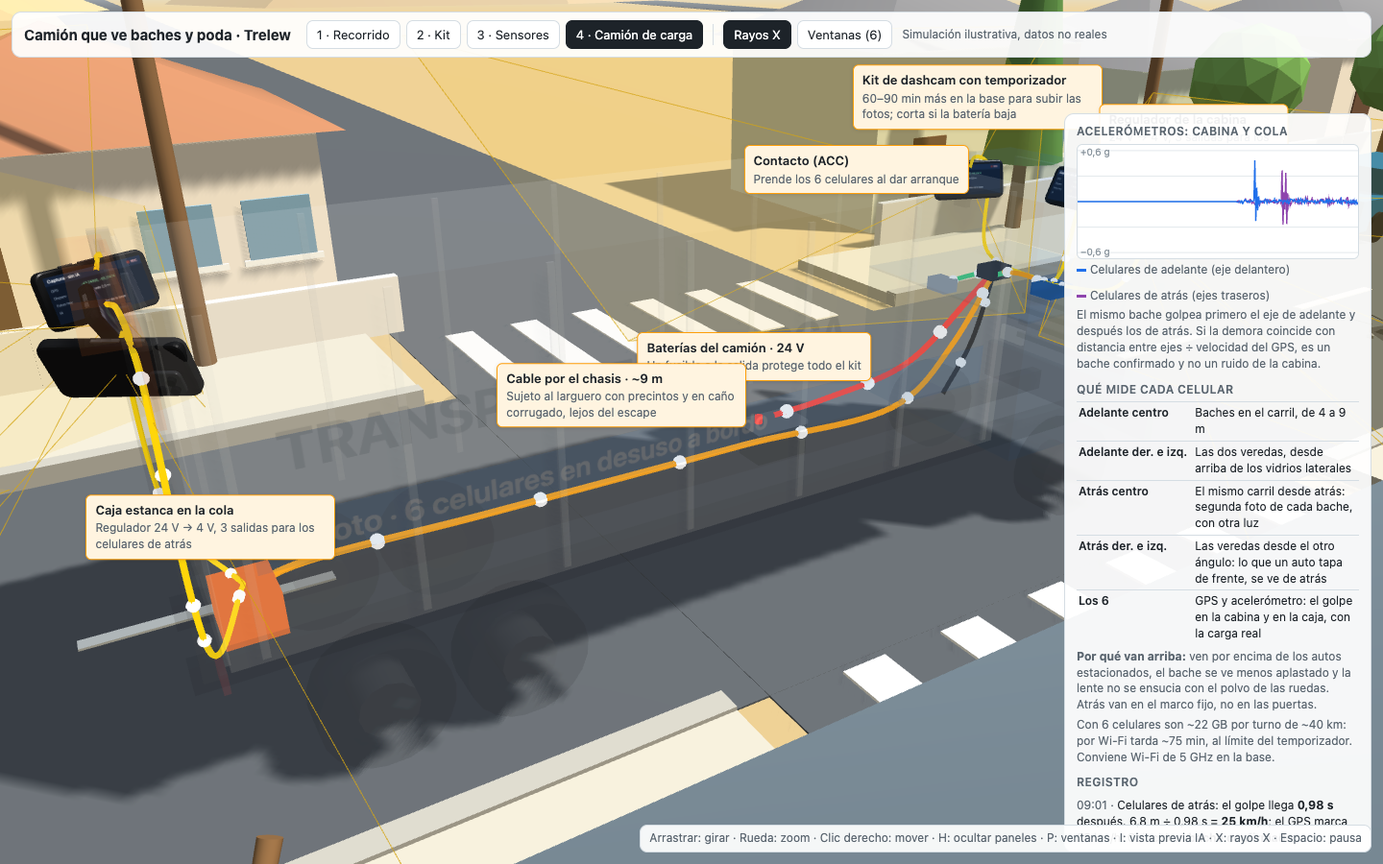
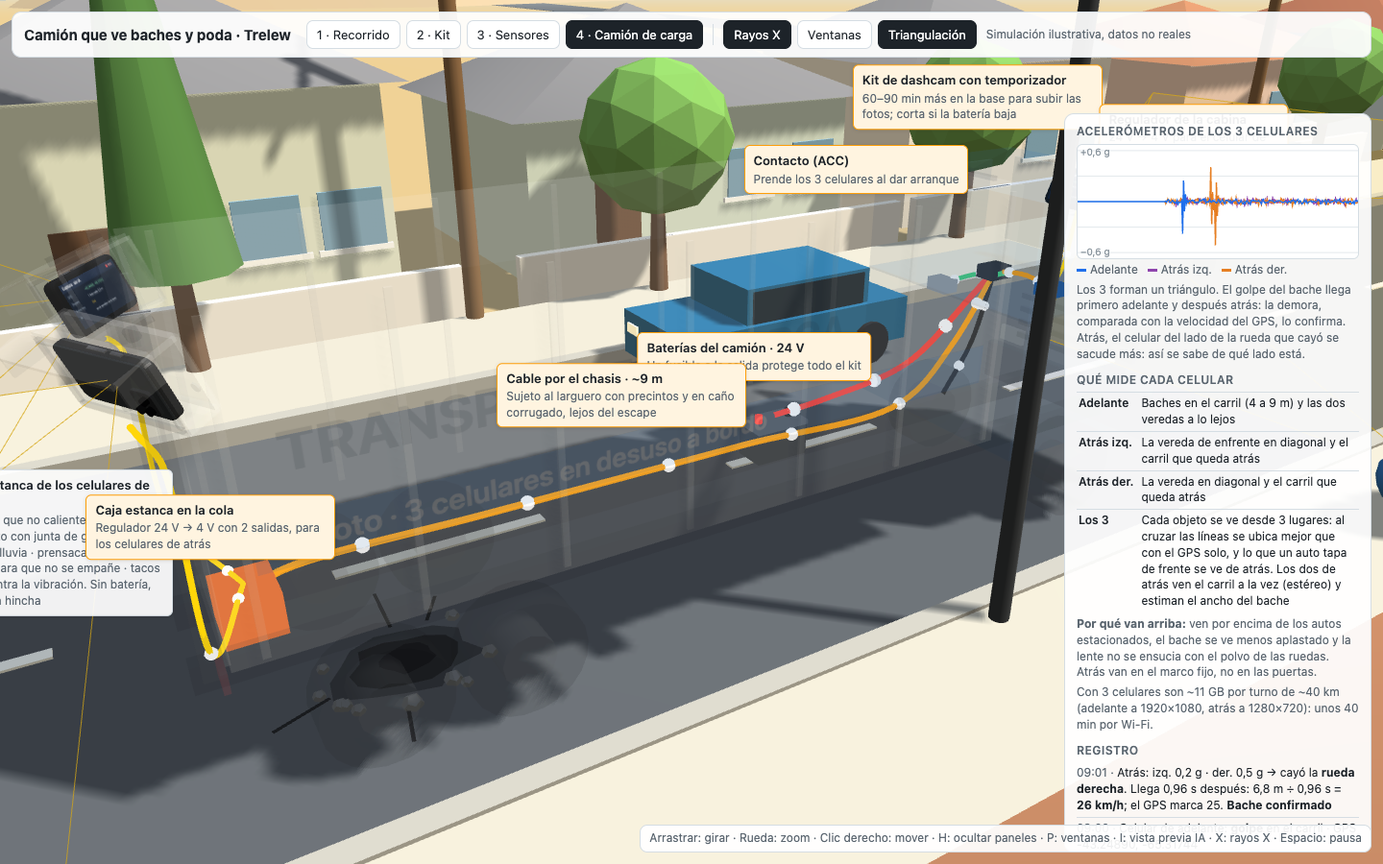
Camión de carga: 3 celulares que triangulan y carcasa estanca mejorada

diff --git a/03_visor_3d/visor_3d.html b/03_visor_3d/visor_3d.html
@@ -78,10 +78,11 @@
   #toast{position:fixed;left:50%;top:126px;transform:translateX(-50%);background:var(--ink);color:#fff;border-radius:8px;padding:7px 14px;font-size:13px;display:none}
   body.clean header,body.clean aside,body.clean #miniwrap,body.clean #info,body.clean #help{display:none!important}
   body.clean #pips,body.clean #server{top:12px}
-  #mosaic{position:fixed;left:12px;top:118px;display:none;grid-template-columns:repeat(2,214px);gap:6px;pointer-events:none}
+  #mosaic{position:fixed;left:12px;top:118px;display:none;grid-template-columns:320px;gap:6px;pointer-events:none}
   #mosaic .cell{border:1px solid var(--line);border-radius:8px;overflow:hidden;background:transparent}
   #mosaic .cell div:first-child{height:22px;padding:3px 8px;font-size:11px;font-weight:600;color:var(--muted);background:var(--card);white-space:nowrap;overflow:hidden;text-overflow:ellipsis}
-  #mosaic .mimg{height:120px}
+  #mosaic .mimg{height:180px}
+  @media (max-height:780px){#mosaic .mimg{height:130px}}
   #cargoPanel{display:none}
   #cargoChart{width:100%;height:120px;display:block;border:1px solid var(--line);border-radius:6px;background:#fff}
   #cargoPanel table{width:100%;border-collapse:collapse;font-size:12px}
@@ -128,7 +129,8 @@
   </div>
   <div class="btns" id="cargaBtns" style="display:none">
     <button id="xray2">Rayos X</button>
-    <button id="mos" class="on">Ventanas (6)</button>
+    <button id="mos" class="on">Ventanas</button>
+    <button id="tri" class="on">Triangulación</button>
   </div>
   <div class="btns" id="kitBtns" style="display:none">
     <button id="explode">Armar</button>
@@ -157,20 +159,19 @@
 <div id="miniwrap"><h2>Mapa del recorrido</h2><canvas id="mini"></canvas></div>
 <div id="mosaic"></div>
 <aside id="cargoPanel">
-  <h2>Acelerómetros: cabina y cola</h2>
+  <h2>Acelerómetros de los 3 celulares</h2>
   <canvas id="cargoChart"></canvas>
-  <div class="legend"><span><i style="background:#1f6feb"></i>Celulares de adelante (eje delantero)</span><span><i style="background:#8e44ad"></i>Celulares de atrás (ejes traseros)</span></div>
-  <p>El mismo bache golpea primero el eje de adelante y después los de atrás. Si la demora coincide con distancia entre ejes ÷ velocidad del GPS, es un bache confirmado y no un ruido de la cabina.</p>
+  <div class="legend"><span><i style="background:#1f6feb"></i>Adelante</span><span><i style="background:#8e44ad"></i>Atrás izq.</span><span><i style="background:#e67e22"></i>Atrás der.</span></div>
+  <p>Los 3 forman un triángulo. El golpe del bache llega primero adelante y después atrás: la demora, comparada con la velocidad del GPS, lo confirma. Atrás, el celular del lado de la rueda que cayó se sacude más: así se sabe de qué lado está.</p>
   <h2>Qué mide cada celular</h2>
   <table>
-    <tr><td>Adelante centro</td><td>Baches en el carril, de 4 a 9 m</td></tr>
-    <tr><td>Adelante der. e izq.</td><td>Las dos veredas, desde arriba de los vidrios laterales</td></tr>
-    <tr><td>Atrás centro</td><td>El mismo carril desde atrás: segunda foto de cada bache, con otra luz</td></tr>
-    <tr><td>Atrás der. e izq.</td><td>Las veredas desde el otro ángulo: lo que un auto tapa de frente, se ve de atrás</td></tr>
-    <tr><td>Los 6</td><td>GPS y acelerómetro: el golpe en la cabina y en la caja, con la carga real</td></tr>
+    <tr><td>Adelante</td><td>Baches en el carril (4 a 9 m) y las dos veredas a lo lejos</td></tr>
+    <tr><td>Atrás izq.</td><td>La vereda de enfrente en diagonal y el carril que queda atrás</td></tr>
+    <tr><td>Atrás der.</td><td>La vereda en diagonal y el carril que queda atrás</td></tr>
+    <tr><td>Los 3</td><td>Cada objeto se ve desde 3 lugares: al cruzar las líneas se ubica mejor que con el GPS solo, y lo que un auto tapa de frente se ve de atrás. Los dos de atrás ven el carril a la vez (estéreo) y estiman el ancho del bache</td></tr>
   </table>
   <p><b>Por qué van arriba:</b> ven por encima de los autos estacionados, el bache se ve menos aplastado y la lente no se ensucia con el polvo de las ruedas. Atrás van en el marco fijo, no en las puertas.</p>
-  <p>Con 6 celulares son ~22 GB por turno de ~40 km: por Wi-Fi tarda ~75 min, al límite del temporizador. Conviene Wi-Fi de 5 GHz en la base.</p>
+  <p>Con 3 celulares son ~11 GB por turno de ~40 km (adelante a 1920×1080, atrás a 1280×720): unos 40 min por Wi-Fi.</p>
   <h2>Registro</h2>
   <ul id="cargoLog" class="log"></ul>
 </aside>
@@ -978,7 +979,7 @@ for (const [html, obj, off] of [
 }
 
 // =====================================================================
-// Camión de carga con 6 celulares
+// Camión de carga con 3 celulares que triangulan
 // =====================================================================
 const cargo = new THREE.Group(); cargo.visible = false; scene.add(cargo);
 {
@@ -1003,7 +1004,7 @@ const cargo = new THREE.Group(); cargo.visible = false; scene.add(cargo);
   const cTex = textTex(1024, 200, (g, w, h) => {
     g.fillStyle = "#1f5fa8"; g.fillRect(0, 140, w, 60);
     g.fillStyle = "#1d2329"; g.font = "700 62px system-ui"; g.fillText("TRANSPORTE DE CARGA", 40, 90);
-    g.fillStyle = "#fff"; g.font = "600 36px system-ui"; g.fillText("Piloto · 6 celulares en desuso a bordo", 40, 183);
+    g.fillStyle = "#fff"; g.font = "600 36px system-ui"; g.fillText("Piloto · 3 celulares en desuso a bordo", 40, 183);
   });
   for (const s of [1, -1]) { const pl = new THREE.Mesh(new THREE.PlaneGeometry(7, 1.35), new THREE.MeshBasicMaterial({map: cTex, transparent: true})); pl.position.set(-1.85, 2.7, s * 1.285); if (s < 0) pl.rotation.y = Math.PI; cargo.add(pl); }
 }
@@ -1013,33 +1014,50 @@ for (const x of CARGO_AXLES) for (const z of [-1.1, 1.1]) {
   const w = new THREE.Mesh(wg, M(0x1d1d1f)); w.position.set(x, .55, z); cargo.add(w); cargoWheels.push(w);
   const h = new THREE.Mesh(hubG, grey); h.position.set(x, .55, z); cargo.add(h); cargoWheels.push(h);
 }
-// los 6 celulares: 3 en el parabrisas y 3 en la cola, dentro de carcasas estancas
+// 3 celulares en triángulo: uno arriba del parabrisas y dos en las esquinas de arriba de la cola.
+// Los de atrás miran en diagonal: cada uno su vereda, y los dos juntos el carril que queda atrás (estéreo).
 const CC = [
-  {key: "fc", name: "Adelante centro · baches", pos: V3(4.42, 3.45, 0), dir: V3(1, -.42, 0)},
-  // los de los costados, arriba en los vidrios laterales (no en las esquinas del parabrisas, que tienen el parante)
-  {key: "fl", name: "Adelante izquierda · vereda de enfrente", pos: V3(3.75, 3.45, -1.18), dir: V3(.35, -.3, -1)},
-  {key: "fr", name: "Adelante derecha · vereda", pos: V3(3.75, 3.45, 1.18), dir: V3(.35, -.5, 1)},
-  // los de atrás, colgados del marco fijo de arriba: no de las puertas, que se abren para cargar
-  {key: "rc", name: "Atrás centro · baches, 2.ª foto", pos: V3(-5.86, 3.6, 0), dir: V3(-1, -.5, 0), rear: true},
-  {key: "rl", name: "Atrás izquierda · vereda de enfrente", pos: V3(-5.86, 3.6, -1.0), dir: V3(-.55, -.3, -1), rear: true},
-  {key: "rr", name: "Atrás derecha · vereda", pos: V3(-5.86, 3.6, 1.0), dir: V3(-.55, -.5, 1), rear: true}
+  {key: "fc", name: "Adelante · baches y las dos veredas a lo lejos", short: "Adelante", col: 0x1f6feb, pos: V3(4.42, 3.45, 0), dir: V3(1, -.42, 0), res: "1920 × 1080"},
+  // atrás: colgados del marco fijo, no de las puertas, que se abren para cargar
+  {key: "rl", name: "Atrás izquierda · vereda de enfrente y carril", short: "Atrás izquierda", col: 0x8e44ad, pos: V3(-5.9, 3.55, -1.05), dir: V3(-1, -.42, -.6), rear: true, res: "1280 × 720"},
+  {key: "rr", name: "Atrás derecha · vereda y carril", short: "Atrás derecha", col: 0xe67e22, pos: V3(-5.9, 3.55, 1.05), dir: V3(-1, -.42, .6), rear: true, res: "1280 × 720"}
 ];
-const cargoHelpers = [], cargoPhones = [];
+const cargoHelpers = [], cargoPhones = [], housings = [];
 const frusMat = new THREE.LineBasicMaterial({color: 0xd4a514, transparent: true, opacity: .75});
 const frusFill = new THREE.MeshBasicMaterial({color: 0xf2c230, transparent: true, opacity: .14, side: THREE.DoubleSide, depthWrite: false});
 const tmpCam = new THREE.PerspectiveCamera(43, 16 / 9, .6, 140);
+// carcasa estanca para los celulares que van afuera
+function makeHousing() {
+  const h = new THREE.Group(), body = M(0xeceff1, {roughness: .5}), rubber = M(0x1b1c1f, {roughness: .9});
+  // cuerpo blanco (refleja el sol), abierto adelante; el celular queda adentro
+  h.add(box(1.04, .06, .26, body, 0, .29, .07), box(1.04, .06, .26, body, 0, -.29, .07));
+  h.add(box(.06, .58, .26, body, -.52, 0, .07), box(.06, .58, .26, body, .52, 0, .07));
+  h.add(box(1.04, .58, .05, body, 0, 0, .2));
+  // ventana de policarbonato con junta de goma
+  h.add(box(.96, .5, .015, new THREE.MeshStandardMaterial({color: 0xcfe6f5, roughness: .05, metalness: .1, transparent: true, opacity: .28}), 0, 0, -.06));
+  for (const [w, hh, x, y] of [[1.0, .035, 0, .265], [1.0, .035, 0, -.265], [.035, .5, -.49, 0], [.035, .5, .49, 0]]) h.add(box(w, hh, .03, rubber, x, y, -.065));
+  // visera contra sol y lluvia, con alas a los costados
+  const vis = box(1.14, .03, .3, M(0xe4e7ea, {roughness: .5}), 0, .32, -.17); vis.rotation.x = -.12; h.add(vis);
+  for (const x of [-.56, .56]) h.add(box(.025, .2, .28, M(0xe4e7ea, {roughness: .5}), x, .22, -.15));
+  // prensacable abajo (el agua no entra por el cable) y membrana de venteo para que no se empañe
+  const gland = cyl(.045, .055, .09, rubber, 12); gland.position.set(.3, -.35, .1); h.add(gland);
+  const vent = cyl(.035, .035, .015, M(0x9aa0a6), 12); vent.rotation.x = Math.PI / 2; vent.position.set(-.35, -.18, .23); h.add(vent);
+  // tacos de goma antivibración entre la carcasa y el marco
+  for (const x of [-.32, .32]) { const t = cyl(.045, .045, .07, rubber, 10); t.position.set(x, .36, .08); h.add(t); }
+  return h;
+}
 for (const c of CC) {
   c.dir.normalize();
+  const flat = V3(c.dir.x, 0, c.dir.z).normalize(), pitch = -Math.asin(-c.dir.y);
   const ph = makePhone(.42, .86, .05, true);
-  ph.quaternion.setFromUnitVectors(V3(0, 0, -1), V3(c.dir.x, 0, c.dir.z).normalize());
-  ph.rotateX(-Math.asin(-c.dir.y)); ph.rotateZ(Math.PI / 2);
+  ph.quaternion.setFromUnitVectors(V3(0, 0, -1), flat);
+  ph.rotateX(pitch); ph.rotateZ(Math.PI / 2);
   ph.position.copy(c.pos); cargo.add(ph); cargoPhones.push(ph);
-  if (c.rear) { // carcasa estanca naranja con visera
-    const h = new THREE.Group();
-    h.add(box(.06, .56, .98, M(0xe0672b, {roughness: .6}), .12, 0, 0));
-    h.add(box(.32, .05, 1.0, M(0xe0672b, {roughness: .6}), -.04, .3, 0));
-    h.add(box(.06, .1, .06, M(0x5d6166), .08, .34, 0));   // soporte al marco
-    h.position.copy(c.pos); cargo.add(h);
+  if (c.rear) {
+    const h = makeHousing();
+    h.quaternion.setFromUnitVectors(V3(0, 0, -1), flat); h.rotateX(pitch);
+    h.position.copy(c.pos); cargo.add(h); housings.push(h);
+    cargo.add(box(.1, .16, .1, M(0x5d6166, {metalness: .5}), c.pos.x + .05, 3.86, c.pos.z)); // escuadra al marco
   } else cargo.add(box(.08, .2, .08, dark, c.pos.x, 3.7, c.pos.z));
   c.cam = new THREE.PerspectiveCamera(43, 16 / 9, .6, 140);
   c.world = new THREE.Vector3();
@@ -1054,16 +1072,18 @@ for (const c of CC) {
   const lines = new THREE.LineSegments(new THREE.BufferGeometry().setFromPoints([...pts.flatMap(q => [c.pos, q]), pts[0], pts[1], pts[1], pts[2], pts[2], pts[3], pts[3], pts[0]]), frusMat);
   const fill = new THREE.Mesh(new THREE.BufferGeometry().setFromPoints([pts[0], pts[1], pts[2], pts[0], pts[2], pts[3]]), frusFill);
   cargo.add(lines, fill); cargoHelpers.push(lines, fill);
-  c.label = makeLabel(`<b>${c.name.split(" · ")[0]}</b>`, ""); c.label.obj = ph;
-  c.label.offset.set(c.rear ? -.3 : .3, .55, c.pos.z * .5);
+  c.label = makeLabel(`<b>${c.short}</b>${c.rear ? " · carcasa estanca" : ""}`, ""); c.label.obj = ph;
+  c.label.offset.set(c.rear ? -.3 : .3, .65, c.pos.z * .4);
 }
-const cargoMarkers = {chassis: new THREE.Object3D(), rearBox: null};
+const housingLabel = makeLabel("<b>Carcasa estanca de los celulares de afuera</b><small>Blanca, para que no calienten · ventana de policarbonato con junta de goma · visera contra sol y lluvia · prensacable abajo · membrana para que no se empañe · tacos de goma contra la vibración. Sin batería, el calor no la hincha</small>", "big");
+housingLabel.obj = housings[1]; housingLabel.offset.set(-.6, -.7, 1.5); housingLabel.visible = false;
+const cargoMarkers = {chassis: new THREE.Object3D()};
 const cargoWiring = buildWiring(cargo, [
   {mesh: wBattery("24"), pos: V3(.9, .62, -1.2), html: "<b>Baterías del camión · 24 V</b><small>Un fusible a la salida protege todo el kit</small>", off: V3(.4, .3, -1.0)},
-  {mesh: wBox(.22, .16, .3, 0x8a9199), pos: V3(3.25, 2.25, -.95), html: "<b>Contacto (ACC)</b><small>Prende los 6 celulares al dar arranque</small>", off: V3(-.3, .9, -1.4)},
+  {mesh: wBox(.22, .16, .3, 0x8a9199), pos: V3(3.25, 2.25, -.95), html: "<b>Contacto (ACC)</b><small>Prende los 3 celulares al dar arranque</small>", off: V3(-.3, .9, -1.4)},
   {mesh: wBox(.32, .16, .26, 0x16181b, 0x2ecc71), pos: V3(3.7, 2.45, -.55), html: "<b>Kit de dashcam con temporizador</b><small>60–90 min más en la base para subir las fotos; corta si la batería baja</small>", off: V3(.6, 1.5, -1.1)},
-  {mesh: wBox(.36, .14, .3, 0x1f4f8b), pos: V3(3.7, 2.45, .35), html: "<b>Regulador de la cabina</b><small>24 V → 4 V, 3 salidas para los celulares de adelante</small>", off: V3(.6, 1.5, 1.1)},
-  {mesh: wBox(.5, .4, .6, 0xe0672b), pos: V3(-5.35, 1.05, 0), html: "<b>Caja estanca en la cola</b><small>Regulador 24 V → 4 V, 3 salidas para los celulares de atrás</small>", off: V3(-.2, .5, 0)},
+  {mesh: wBox(.3, .14, .26, 0x1f4f8b), pos: V3(3.7, 2.45, .35), html: "<b>Regulador de la cabina</b><small>24 V → 4 V para el celular de adelante</small>", off: V3(.6, 1.5, 1.1)},
+  {mesh: wBox(.5, .4, .6, 0xe0672b), pos: V3(-5.35, 1.05, 0), html: "<b>Caja estanca en la cola</b><small>Regulador 24 V → 4 V con 2 salidas, para los celulares de atrás</small>", off: V3(-.2, .5, 0)},
   {mesh: cargoMarkers.chassis, pos: V3(-1.2, .95, -.55), html: "<b>Cable por el chasis · ~9 m</b><small>Sujeto al larguero con precintos y en caño corrugado, lejos del escape</small>", off: V3(0, .3, -.6)}
 ], [
   {col: WIRE.batt, rad: .04, pts: [V3(.9, .9, -1.2), V3(1.6, 1.0, -1.1), V3(2.8, 1.3, -.95), V3(3.5, 2.1, -.7), V3(3.7, 2.45, -.55)]},
@@ -1072,15 +1092,51 @@ const cargoWiring = buildWiring(cargo, [
   {col: WIRE.timed, pts: [V3(3.7, 2.45, -.55), V3(3.75, 2.5, -.1), V3(3.7, 2.45, .35)], n: 2},
   {col: WIRE.timed, rad: .035, n: 6, sp: .25, pts: [V3(3.7, 2.4, -.55), V3(3.2, 1.6, -.6), V3(2.4, 1.0, -.55), V3(0, .98, -.55), V3(-3, .98, -.55), V3(-4.9, .98, -.55), V3(-5.35, 1.05, -.2)]},
   {col: WIRE.usb, rad: .022, pts: [V3(3.7, 2.5, .35), V3(4.3, 2.6, 0), V3(4.42, 3.6, 0), V3(4.42, 3.7, 0), V3(4.42, 3.55, 0)]},
-  ...[-1, 1].map(s => ({col: WIRE.usb, rad: .022, pts: [V3(3.7, 2.5, .35), V3(4.0, 2.6, s), V3(4.1, 3.6, s * 1.2), V3(3.8, 3.72, s * 1.18), V3(3.75, 3.6, s * 1.18)]})),
-  // atrás: el cable sube por el parante fijo y sigue por el marco, nunca por la puerta
-  ...[0, -1.0, 1.0].map(z => { const s = z < 0 ? -1 : 1; return {col: WIRE.usb, rad: .022, pts: [V3(-5.35, 1.25, 0), V3(-5.74, 1.45, 1.2 * s), V3(-5.78, 3.7, 1.2 * s), V3(-5.8, 3.86, (1.2 * s + z) / 2), V3(-5.84, 3.75, z)]}; })
+  // atrás: sube por el parante fijo y entra a la carcasa por el prensacable de abajo
+  ...[-1, 1].map(s => ({col: WIRE.usb, rad: .022, pts: [V3(-5.35, 1.25, 0), V3(-5.74, 1.45, 1.2 * s), V3(-5.78, 3.0, 1.2 * s), V3(-5.86, 3.15, 1.12 * s), V3(-5.9, 3.2, 1.0 * s)]}))
 ]);
 const cargoX = prepXray(cargo, [cargoWiring.g, ...cargoPhones, ...cargoHelpers]);
 let xrayCarga = false;
-// recorrido del camión de carga y sus dos acelerómetros
-const CG = {x: -70, v: 7, simT: 0, bumpF: 0, bumpR: 0, hits: new Map()};
-const CBUF = 300, accCF = new Float32Array(CBUF), accCR = new Float32Array(CBUF);
+// triangulación: cada objeto se ve desde el celular de adelante (al acercarse) y desde los de atrás (al alejarse)
+const TRI_MAX = 4;
+const triGeo = new THREE.BufferGeometry();
+triGeo.setAttribute("position", new THREE.BufferAttribute(new Float32Array(TRI_MAX * 3 * 2 * 3), 3));
+triGeo.setAttribute("color", new THREE.BufferAttribute(new Float32Array(TRI_MAX * 3 * 2 * 3), 3));
+const triLines = new THREE.LineSegments(triGeo, new THREE.LineBasicMaterial({vertexColors: true, transparent: true, opacity: .95, depthTest: false}));
+triLines.renderOrder = 5; triLines.frustumCulled = false; scene.add(triLines);
+const triDots = [];
+for (let i = 0; i < TRI_MAX * 3; i++) { const d = new THREE.Mesh(new THREE.SphereGeometry(.12, 10, 8), new THREE.MeshBasicMaterial({color: 0xffffff, depthTest: false})); d.renderOrder = 6; d.visible = false; scene.add(d); triDots.push(d); }
+const triLbls = Array.from({length: TRI_MAX}, () => { const l = makeLabel("", "zone"); l.visible = false; return l; });
+let triOn = true;
+const camSees = (c, o) => o.home.distanceTo(c.world) < 16 && projectBox(o, c.cam);
+function updateTri() {
+  const pos = triGeo.attributes.position.array, col = triGeo.attributes.color.array;
+  let n = 0, k = 0;
+  triLbls.forEach(l => l.visible = false); triDots.forEach(d => d.visible = false);
+  for (const o of OBJS) {
+    if (!present(o)) continue;
+    if (camSees(CC[0], o)) o.cgFront = CC[0].world.clone();           // la última vez que lo vio el de adelante
+    const rear = CC.slice(1).filter(c => camSees(c, o));
+    if (!triOn || !o.cgFront || !rear.length || n >= TRI_MAX) continue;
+    const tgt = o.home.clone().add(V3(0, o.kind === "hole" ? .05 : .6, 0));
+    const rays = [[o.cgFront, CC[0].col], ...rear.map(c => [c.world, c.col])];
+    for (const [from, c] of rays) {
+      const cc = new THREE.Color(c);
+      for (const q of [from, tgt]) { pos.set([q.x, q.y, q.z], k * 3); col.set([cc.r, cc.g, cc.b], k * 3); k++; }
+    }
+    triDots[n * 3].position.copy(o.cgFront); triDots[n * 3].visible = true;
+    const l = triLbls[n]; l.visible = true; l.obj = null; l.pos = o.home; l.offset.set(0, o.kind === "hole" ? 1.2 : 2.4, 0);
+    const stereo = rear.length === 2 && o.kind === "hole";
+    l.el.innerHTML = `<b>${TYPES[o.type].name}</b> · ${rays.length} vistas: ubicado por triangulación${stereo ? ` · estéreo: ancho ≈ ${coma((o.r * 2.6).toFixed(1))} m` : ""}`;
+    n++;
+  }
+  for (let i = k; i < TRI_MAX * 6; i++) pos.set([0, -50, 0], i * 3);
+  triGeo.attributes.position.needsUpdate = true; triGeo.attributes.color.needsUpdate = true;
+  triGeo.setDrawRange(0, k);
+}
+// recorrido del camión de carga y los acelerómetros de los 3 celulares
+const CG = {x: -70, v: 7, simT: 0, bF: 0, bL: 0, bR: 0, hits: new Map()};
+const CBUF = 300, accCF = new Float32Array(CBUF), accRL = new Float32Array(CBUF), accRR = new Float32Array(CBUF);
 let cI = 0, cAcc = 0;
 const cargoLogEl = document.getElementById("cargoLog");
 const cclock = () => { const m = 9 * 60 + Math.floor(CG.simT); return `${String(Math.floor(m / 60)).padStart(2, "0")}:${String(m % 60).padStart(2, "0")}`; };
@@ -1091,43 +1147,48 @@ function cargoLog(html) {
 function stepCargo(dt) {
   const prevX = CG.x;
   CG.simT += dt; CG.x += CG.v * dt;
-  if (CG.x > 88) { CG.x = -88; CG.hits.clear(); }
+  if (CG.x > 88) { CG.x = -88; CG.hits.clear(); for (const o of OBJS) o.cgFront = null; }
   cargo.position.set(CG.x, 0, ROAD_Z);
   for (const w of cargoWheels) w.rotation.z -= CG.v * dt / .55;
   if (CG.x > prevX) for (const o of OBJS) {
     if (o.kind !== "hole" || !present(o)) continue;
-    if (!(Math.abs(ROAD_Z + 1.1 - o.z) < o.r * 1.1 || Math.abs(ROAD_Z - 1.1 - o.z) < o.r * 1.1)) continue;
+    const right = Math.abs(ROAD_Z + 1.1 - o.z) < o.r * 1.1, left = Math.abs(ROAD_Z - 1.1 - o.z) < o.r * 1.1;
+    if (!right && !left) continue;
     CARGO_AXLES.forEach((ax, i) => {
       if (!(prevX + ax < o.x && CG.x + ax >= o.x)) return;
       if (i === 0) {
-        CG.bumpF = .5; CG.hits.set(o, CG.simT);
-        cargoLog(`<em>${cclock()} ·</em> Celulares de adelante: <b>golpe</b> en el carril · GPS ${LAT}, ${lonOf(o.x)}`);
-      } else {
-        CG.bumpR = .45;
-        if (i === 1 && CG.hits.has(o)) {
-          const dtv = CG.simT - CG.hits.get(o), base = CARGO_AXLES[0] - CARGO_AXLES[1];
-          cargoLog(`<em>${cclock()} ·</em> Celulares de atrás: el golpe llega <b>${coma(dtv.toFixed(2))} s</b> después. ${coma(base.toFixed(1))} m ÷ ${coma(dtv.toFixed(2))} s = <b>${Math.round(base / dtv * 3.6)} km/h</b>; el GPS marca ${Math.round(CG.v * 3.6)} km/h. Coinciden: <b>bache confirmado</b>`);
-        }
+        CG.bF = .45; CG.hits.set(o, CG.simT);
+        cargoLog(`<em>${cclock()} ·</em> Celular de adelante: <b>golpe</b> en el carril · GPS ${LAT}, ${lonOf(o.x)}`);
+        return;
+      }
+      // la rueda que cae sacude más al celular de su lado
+      const gL = right ? .2 : .5, gR = right ? .5 : .2;
+      CG.bL = gL; CG.bR = gR;
+      if (i === 1 && CG.hits.has(o)) {
+        const dtv = CG.simT - CG.hits.get(o), base = CARGO_AXLES[0] - CARGO_AXLES[1];
+        cargoLog(`<em>${cclock()} ·</em> Atrás: izq. ${coma(gL.toFixed(1))} g · der. ${coma(gR.toFixed(1))} g → cayó la <b>rueda ${right ? "derecha" : "izquierda"}</b>. Llega ${coma(dtv.toFixed(2))} s después: ${coma(base.toFixed(1))} m ÷ ${coma(dtv.toFixed(2))} s = <b>${Math.round(base / dtv * 3.6)} km/h</b>; el GPS marca ${Math.round(CG.v * 3.6)}. <b>Bache confirmado</b>`);
       }
     });
   }
   cAcc += dt;
   while (cAcc > 1 / 30) {
     cAcc -= 1 / 30;
-    const n = () => gauss() * .035;
-    accCF[cI] = n() + (CG.bumpF > .02 ? CG.bumpF * (cI % 2 ? 1 : -.8) : 0);
-    accCR[cI] = n() * 1.4 + (CG.bumpR > .02 ? CG.bumpR * (cI % 2 ? -1 : .8) : 0);
-    CG.bumpF *= .55; CG.bumpR *= .55; cI = (cI + 1) % CBUF;
+    const n = () => gauss() * .035, sg = cI % 2 ? 1 : -.8;
+    accCF[cI] = n() + (CG.bF > .02 ? CG.bF * sg : 0);
+    accRL[cI] = n() * 1.3 + (CG.bL > .02 ? CG.bL * -sg : 0);
+    accRR[cI] = n() * 1.3 + (CG.bR > .02 ? CG.bR * -sg : 0);
+    CG.bF *= .55; CG.bL *= .55; CG.bR *= .55; cI = (cI + 1) % CBUF;
   }
   cargo.updateMatrixWorld();
   for (const c of CC) {
     c.world.copy(c.pos); cargo.localToWorld(c.world);
     c.cam.position.copy(c.world); c.cam.lookAt(c.world.clone().add(c.dir)); c.cam.updateMatrixWorld();
   }
+  updateTri();
 }
-// ventanas de los 6 celulares
+// ventanas de los 3 celulares
 const mosaic = document.getElementById("mosaic");
-mosaic.innerHTML = CC.map(c => `<div class="cell"><div>${c.name}</div><div class="mimg" data-k="${c.key}"></div></div>`).join("");
+mosaic.innerHTML = CC.map(c => `<div class="cell"><div>${c.name} · ${c.res}</div><div class="mimg" data-k="${c.key}"></div></div>`).join("");
 let mosOn = true;
 
 // sombras: todo proyecta y recibe, salvo lo transparente, lo plano y el horizonte
@@ -1608,6 +1669,7 @@ document.getElementById("ai").onclick = e => { aiPreview = !aiPreview; e.target.
 document.getElementById("xray").onclick = e => { xrayRuta = !xrayRuta; e.target.classList.toggle("on", xrayRuta); applyXray(garbageX, xrayRuta); };
 document.getElementById("xray2").onclick = e => { xrayCarga = !xrayCarga; e.target.classList.toggle("on", xrayCarga); applyXray(cargoX, xrayCarga); };
 document.getElementById("mos").onclick = e => { mosOn = !mosOn; e.target.classList.toggle("on", mosOn); };
+document.getElementById("tri").onclick = e => { triOn = !triOn; e.target.classList.toggle("on", triOn); };
 document.getElementById("pause").onclick = e => { S.paused = !S.paused; e.target.textContent = S.paused ? "Seguir" : "Pausa"; e.target.classList.toggle("on", S.paused); };
 document.getElementById("speed").onclick = e => { S.speed = S.speed === 1 ? 2 : S.speed === 2 ? .5 : 1; e.target.textContent = `${coma(S.speed)}x`; };
 document.getElementById("csv").onclick = () => {
@@ -1726,6 +1788,9 @@ function loop() {
   garbageWiring.set(xrayRuta && mode === "ruta" && view !== "aerea", camera.position.distanceTo(truck.position) < 16); garbageWiring.tick(dt);
   cargoWiring.set(xrayCarga && mode === "carga", camera.position.distanceTo(cargo.position) < 19); cargoWiring.tick(dt);
   for (const c of CC) c.label.visible = mode === "carga" && !xrayCarga;
+  housingLabel.visible = mode === "carga" && camera.position.distanceTo(housings[1].getWorldPosition(tmpV)) < 9;
+  triLines.visible = mode === "carga";
+  if (mode !== "carga") { triLbls.forEach(l => l.visible = false); triDots.forEach(d => d.visible = false); }
   if (mode === "carga") {
     const px = CG.x;
     stepCargo(dt);
@@ -1734,7 +1799,7 @@ function loop() {
     sun.position.set(CG.x + 30, 55, 30); sun.target.position.set(CG.x, 0, 0);
     screenT += dt; if (screenT > .25) { screenT = 0; drawScreen(et, Math.floor(CG.simT * 2.8) * 6, LAT, lonOf(CG.x)); }
     const [gc, wc, hc] = fitCanvas(document.getElementById("cargoChart"));
-    drawLines(gc, wc, hc, [[accCR, "#8e44ad", cI], [accCF, "#1f6feb", cI]], .6);
+    drawLines(gc, wc, hc, [[accRL, "#8e44ad", cI], [accRR, "#e67e22", cI], [accCF, "#1f6feb", cI]], .6);
     gc.fillStyle = "#8a959e"; gc.font = "10px system-ui"; gc.fillText("+0,6 g", 3, 11); gc.fillText("−0,6 g", 3, hc - 3);
   }
   if (mode === "sensores") {
@@ -1754,11 +1819,11 @@ function loop() {
   if (camView) setHelpers(false);
   renderer.render(scene, camView ? CAMS[view].cam : camera);
   setHelpers(true);
-  // ventanas de los 6 celulares del camión de carga
+  // ventanas de los 3 celulares del camión de carga
   const showMos = mode === "carga" && mosOn;
   mosaic.style.display = showMos ? "grid" : "none";
   if (showMos) {
-    const hide = [...cargoHelpers, ...cargoPhones, cargoWiring.g], was = hide.map(o => o.visible);
+    const hide = [...cargoHelpers, ...cargoPhones, cargoWiring.g, triLines, ...triDots], was = hide.map(o => o.visible);
     hide.forEach(o => o.visible = false);
     for (const el of mosaic.querySelectorAll(".mimg")) {
       const r = el.getBoundingClientRect(), c = CC.find(q => q.key === el.dataset.k);

diff --git a/README.md b/README.md
@@ -10,7 +10,7 @@ Tres celulares viejos sin batería en el camión de la basura sacan una foto cad
 |---|---|
 | `01_guion_video_2min.md` | El guion escena por escena (hasta 2:00), con la voz en off completa, cómo grabar el visor 3D y un checklist antes de subir. |
 | `02_lista_de_tomas_y_fotos.md` | Qué filmar en Trelew, la prueba con el auto, las tomas de la IA y el mapa, cómo fotografiar el kit y cómo escanearlo en 3D. |
-| `03_visor_3d/visor_3d.html` | Visor 3D interactivo. Se abre con doble clic en Chrome y necesita internet. **Recorrido:** los tres celulares con sus ventanas (adelante para baches; derecho e izquierdo para la poda de cada vereda), una foto cada 2,5 m, nada de fotos con el camión parado, el golpe del bache en el acelerómetro, la base con la subida por Wi-Fi y el servidor que analiza, y la vista aérea con el mapa. **Kit:** las piezas, despiezadas o montadas en la cabina. **Sensores:** qué responde cada sensor. **Camión de carga:** 6 celulares, 3 en la cabina y 3 en la cola, con sus 6 ventanas y la confirmación del bache entre el eje de adelante y el de atrás. **Rayos X** (tecla X), en el recorrido y en el camión de carga: muestra el cableado desde la batería hasta cada celular. También descarga los datos simulados en CSV. |
+| `03_visor_3d/visor_3d.html` | Visor 3D interactivo. Se abre con doble clic en Chrome y necesita internet. **Recorrido:** los tres celulares con sus ventanas (adelante para baches; derecho e izquierdo para la poda de cada vereda), una foto cada 2,5 m, nada de fotos con el camión parado, el golpe del bache en el acelerómetro, la base con la subida por Wi-Fi y el servidor que analiza, y la vista aérea con el mapa. **Kit:** las piezas, despiezadas o montadas en la cabina. **Sensores:** qué responde cada sensor. **Camión de carga:** 3 celulares en triángulo, uno arriba del parabrisas y dos en las esquinas de la cola, dentro de carcasas estancas. Se ven sus 3 ventanas, la triangulación de cada objeto, el ancho del bache por estéreo y qué rueda cayó según el acelerómetro de cada celular. **Rayos X** (tecla X), en el recorrido y en el camión de carga: muestra el cableado desde la batería hasta cada celular. También descarga los datos simulados en CSV. |
 | `fotos/capturas_visor_3d/` | Capturas de cada vista del visor, listas para el video o el reporte. |
 | `04_subtitulos_voz_en_off.srt` | Subtítulos con los tiempos del guion. Se cargan en el editor o en YouTube. |
 | `clips/` | Acá van los videos que filmen. |

diff --git a/01_guion_video_2min.md b/01_guion_video_2min.md
@@ -63,7 +63,7 @@ Son unas 180 palabras, que leídas tranquilas dan 1:35. El resto es aire para la
    - **Kit:** grabá el paso de "Armar" a "Despiezar". Los tres celulares quedan en el parabrisas y en los dos vidrios laterales.
    - **Sensores:** 10 segundos del celular girando, mientras el gráfico muestra cómo cambia la gravedad en cada eje.
    - **Rayos X (tecla X):** acerquen la cámara a la cabina con la rueda del mouse. Se ve el cableado: batería → fusible y contacto → kit de dashcam con temporizador → regulador → cada celular, con pulsos que muestran la corriente. Sirve para la escena "La idea" o para responder "¿cómo se alimentan?".
-   - **4 · Camión de carga (opcional, para mostrar que escala):** 6 celulares, 3 adelante y 3 en la cola. Graben las 6 ventanas y el registro donde el golpe del bache llega primero a la cabina y ~1 s después a la cola: la demora coincide con la velocidad del GPS y confirma el bache. Con rayos X se ve el cable por el chasis hasta la caja estanca de atrás.
+   - **4 · Camión de carga (opcional, para mostrar que escala):** 3 celulares en triángulo, uno adelante y dos en la cola. Graben las líneas de triangulación que se cruzan sobre cada bache o montón, y el registro: el golpe llega primero adelante y ~1 s después atrás, y el celular del lado de la rueda que cayó se sacude más. Acerquen la cámara a la cola para mostrar la carcasa estanca. Con rayos X se ve el cable por el chasis hasta la caja estanca de atrás.
 6. **Ventanas** (tecla **P**) prende o apaga las tres ventanas de las cámaras. **Espacio** pausa.
 7. El botón **Datos (CSV)** baja los eventos simulados: golpes, paradas, detecciones del servidor y demoras. Sirven para mostrar una planilla "de ejemplo", siempre aclarando que es una simulación.
 
